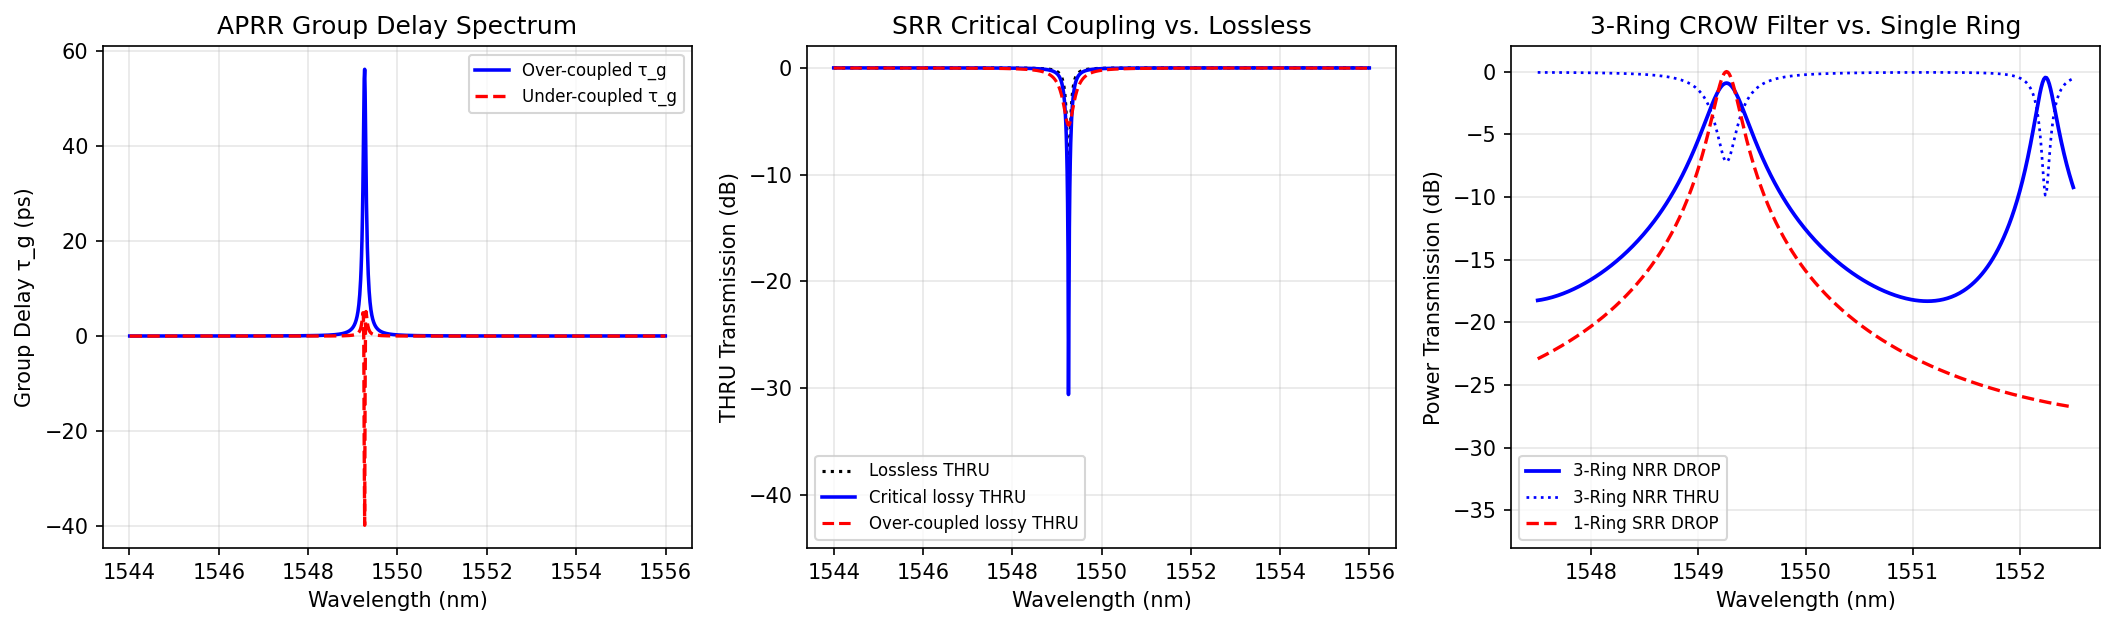
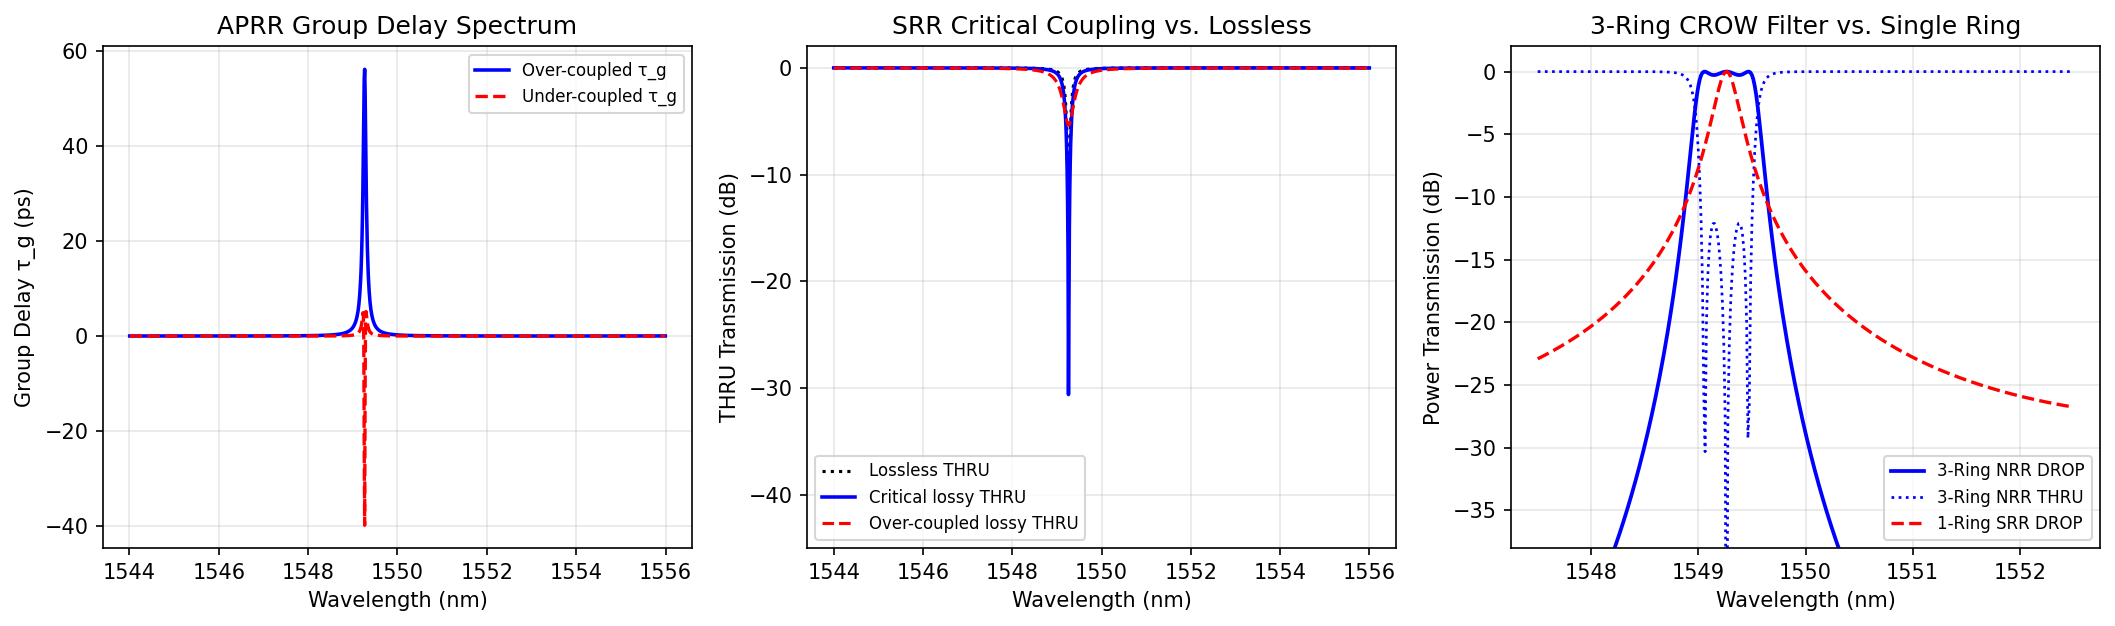
docs: regenerate 3-ring CROW plot and update test count for 3.0.1

diff --git a/index.md b/index.md
@@ -18,7 +18,7 @@ title: Home
 - **Unified Passive Electrodynamic Conventions:** Consistent $$\exp(+i\omega t - i\mathbf{k}\cdot\mathbf{r})$$ harmonic convention, passive complex refractive index $$n = n_r - i\kappa$$ ($$\kappa \ge 0$$), passive branch selection ($$\operatorname{Re}(k_z) - \operatorname{Im}(k_z) \ge 0$$) across propagating, total-internal-reflection (TIR), and plasmonic media, and complex-symmetric linear algebra throughout.
 - **Overhauled Multilayer, Grating & Mode-Matching Solvers:** Rewritten 4 × 4 Yeh–Berreman `AnisotropicTransferMatrix` (SVD nullspace eigenmodes, biaxial binormals, cross-mode Poynting flux), ETM-stabilized `AnisotropicRCWA` with Li's inverse-rule factorization, scale-invariant `FMM1d`/`FMM2d` (SI meters & microns), and overflow-free Redheffer star-product waveguide cascades (`GenericDevice`, passive & reciprocal `SimpleJoint`).
 - **Out-of-the-Box Liquid-Crystal BVP Solver:** `LiquidCrystalCell` solves coupled 1D Oseen–Frank elastic and Laplace electrostatic BVPs natively via `scipy.integrate.solve_bvp`—no legacy `scikits.bvp1lg` dependency needed.
-- **22 Literature Benchmarks & 85 Physics Tests:** Explore the [Methodology & References]({{ '/methodology/' | relative_url }}), browse the [Examples Gallery]({{ '/examples/' | relative_url }}), or read the full [CHANGELOG.md](https://github.com/lbolla/EMpy/blob/master/CHANGELOG.md).
+- **22 Literature Benchmarks & 104 Physics Tests:** Explore the [Methodology & References]({{ '/methodology/' | relative_url }}), browse the [Examples Gallery]({{ '/examples/' | relative_url }}), or read the full [CHANGELOG.md](https://github.com/lbolla/EMpy/blob/master/CHANGELOG.md).
 </div>
 
 ---

diff --git a/methodology.md b/methodology.md
@@ -64,7 +64,7 @@ All solvers and helper utilities in `EMpy 3.0` enforce a unified set of electrod
 
 ## Testing & Verification Strategy {#verification}
 
-`EMpy`'s test suite (`tests/`, 85 tests) continuously verifies physical invariants and analytical limits across Python 3.10–3.14 and `lowest-direct` dependency bounds:
+`EMpy`'s test suite (`tests/`, 104 tests) continuously verifies physical invariants and analytical limits across Python 3.10–3.14 and `lowest-direct` dependency bounds:
 
 1. **Conservation Laws, Passivity & Reciprocity:**
    - *Lossless structures ($$\kappa = 0$$):* Energy conservation and unitarity ($$R + T = 1$$, $$\sum (\mathrm{DE}_1 + \mathrm{DE}_3) = 1$$, $$S^H S = I$$, $$\lvert \mathrm{THRU} \rvert^2 + \lvert \mathrm{DROP} \rvert^2 = 1$$).
